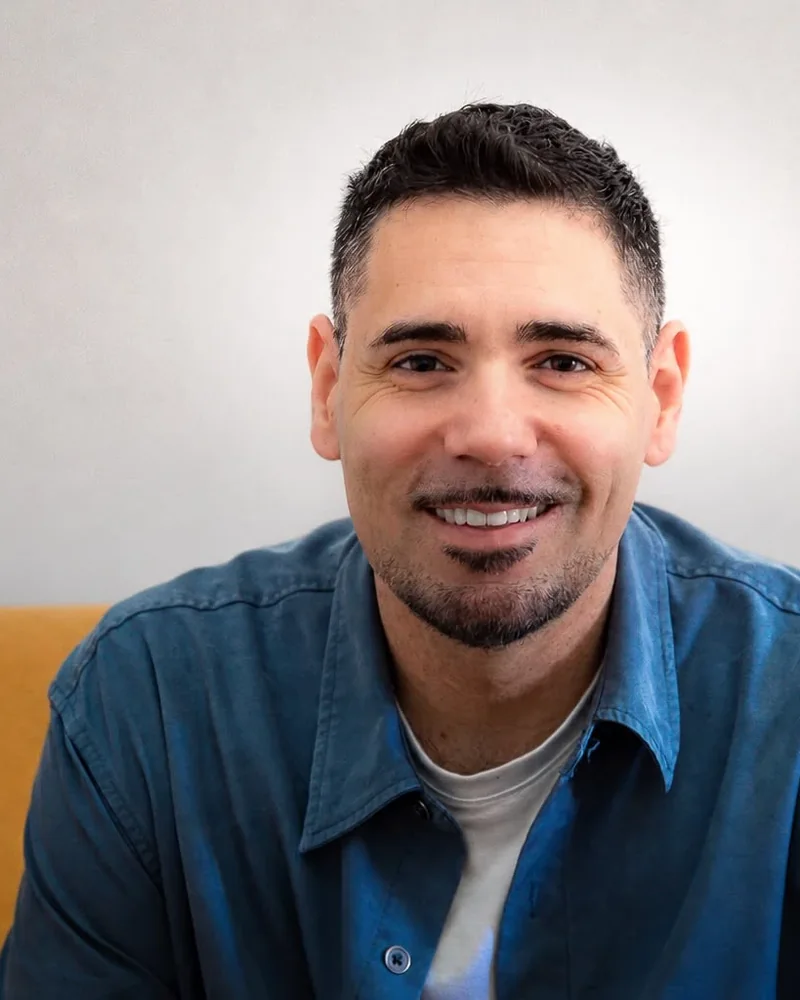
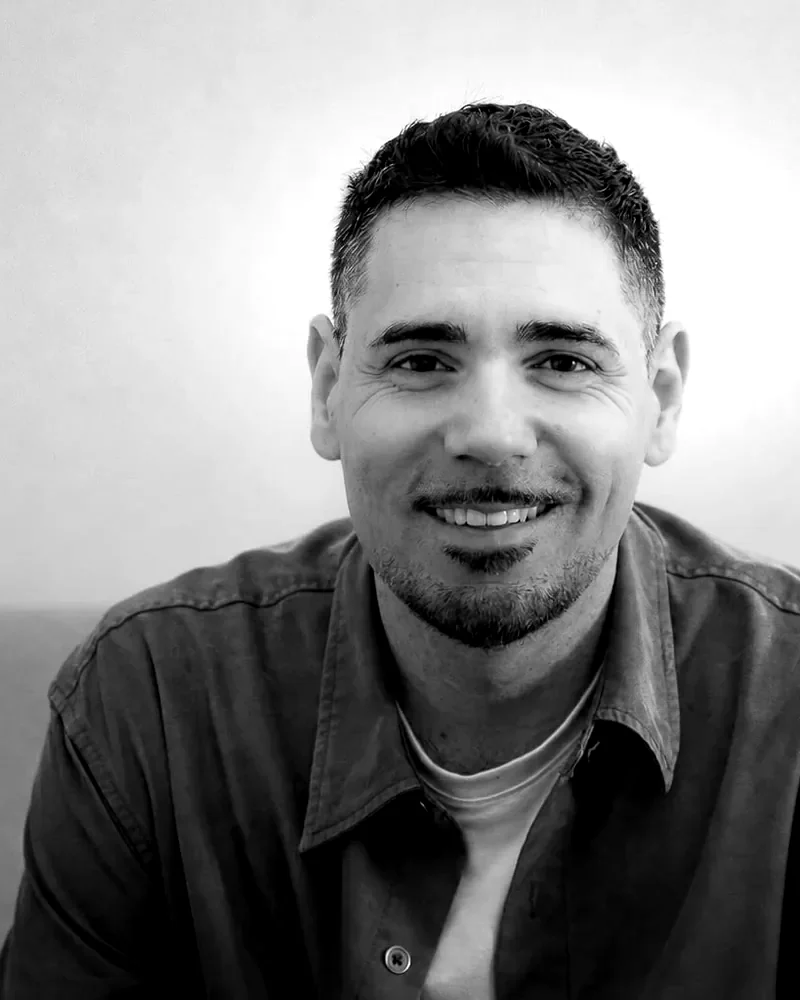
Ciclo Profesional · los tres retratos en blanco y negro.

diff --git a/src/data/ponencias.js b/src/data/ponencias.js
@@ -59,7 +59,7 @@ export const PONENCIAS = [
   {
     clave: "Ponencia: fiscalidad y gestión empresarial para bailarines autónomos y escuelas de baile",
     ponente: "Esteban Molina Pérez",
-    img: "esteban-molina.webp",
+    img: "esteban-molina-ponencia.webp",
     credencial: {
       es: "Economista colegiado · Especialista en escuelas de baile y artistas",
       en: "Chartered economist · Specialist in dance schools and performers",
